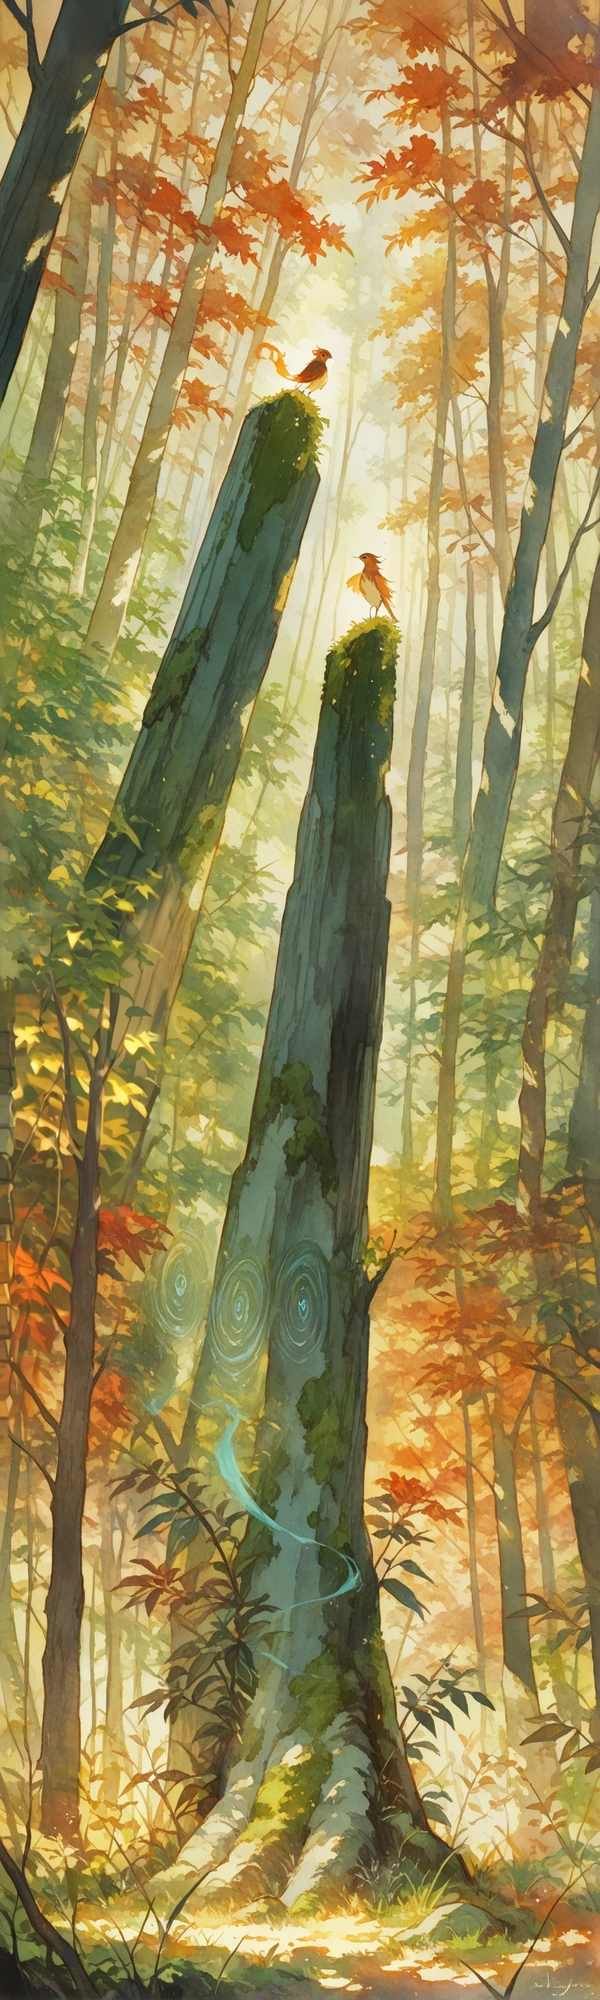
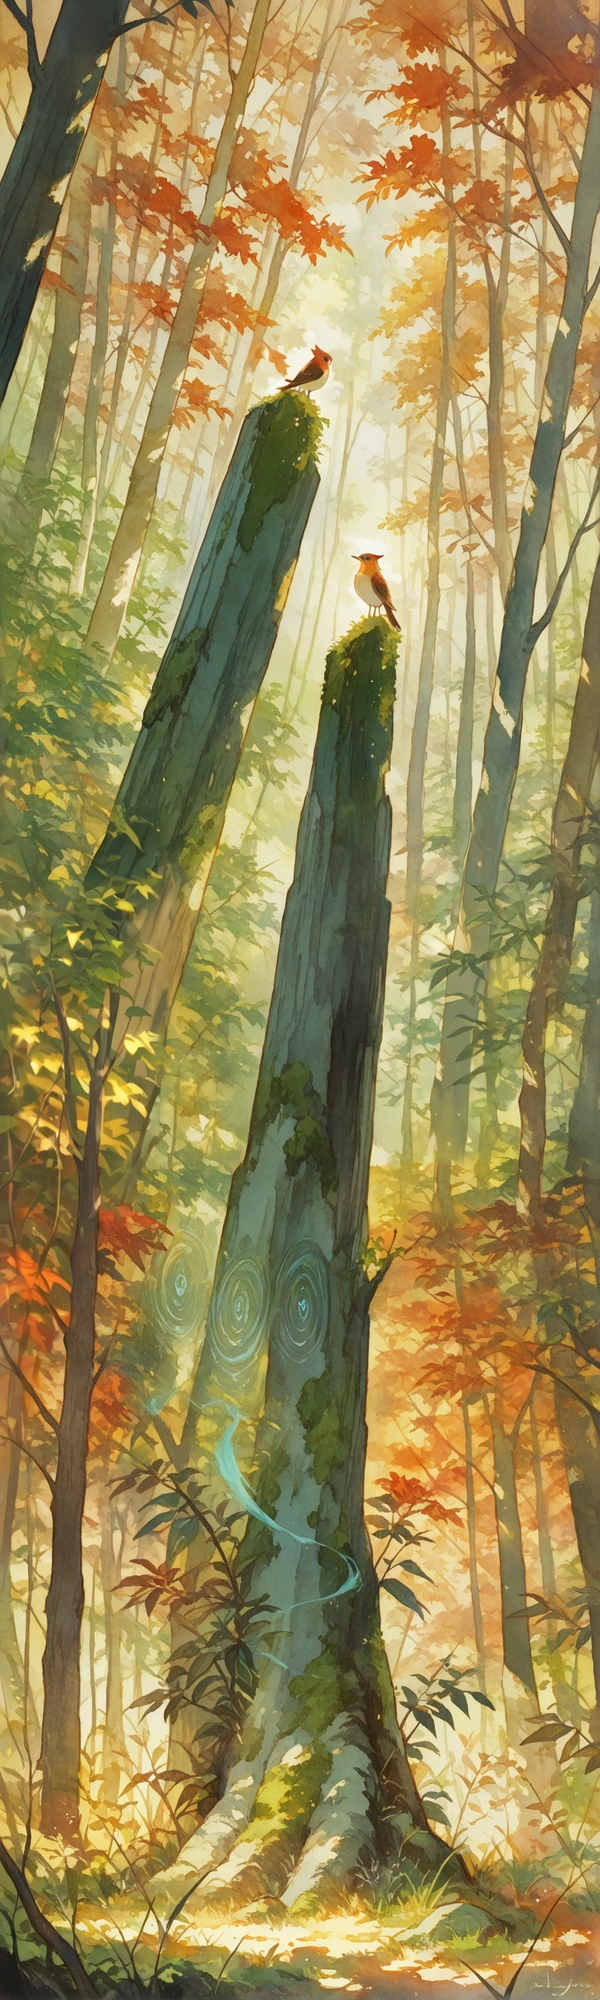
update:

diff --git a/gallery/renewal-of-the-forest-covenant/Forest_of_Story_Marks/js/cg.js b/gallery/renewal-of-the-forest-covenant/Forest_of_Story_Marks/js/cg.js
@@ -23,10 +23,10 @@ const items = [
   { src: './images/16.webp', title: '石灯籠のそばで', caption: '' },
   { src: './images/17.webp', title: '道ゆく猫の背中', caption: '' },
   { src: './images/18.webp', title: '光に染まる幹', caption: '' },
-  { src: './images/19.webp', title: '供え台の静寂', caption: '' },
-  { src: './images/20.webp', title: '朝露を受けて', caption: '' },
+  { src: './images/19.webp', title: '森にとまる気配', caption: '' },
+  { src: './images/20.webp', title: '供え台の静寂', caption: '' },
 
-  { src: './images/21.webp', title: '祠の朝光', caption: '' },
+  { src: './images/21.webp', title: '秋空を渡る布', caption: '' },
   { src: './images/22.webp', title: '柔光の道', caption: '' },
   { src: './images/23.webp', title: '水辺の安らぎ', caption: '' },
   { src: './images/24.webp', title: '木上のまなざし', caption: '' },
@@ -43,7 +43,7 @@ const items = [
   { src: './images/34.webp', title: '青い灯の導き', caption: '' },
   { src: './images/35.webp', title: '木陰の支度', caption: '' },
   { src: './images/36.webp', title: '森に響く輪音', caption: '' },
-  { src: './images/37.webp', title: '枝の上の祈り', caption: '' },
+  { src: './images/37.webp', title: '高みの気配', caption: '' },
   { src: './images/38.webp', title: '帰る道', caption: '' },
   { src: './images/39.webp', title: '森の門を越えて', caption: '' },
   { src: './images/40.webp', title: '眠りの瞳', caption: '' },
